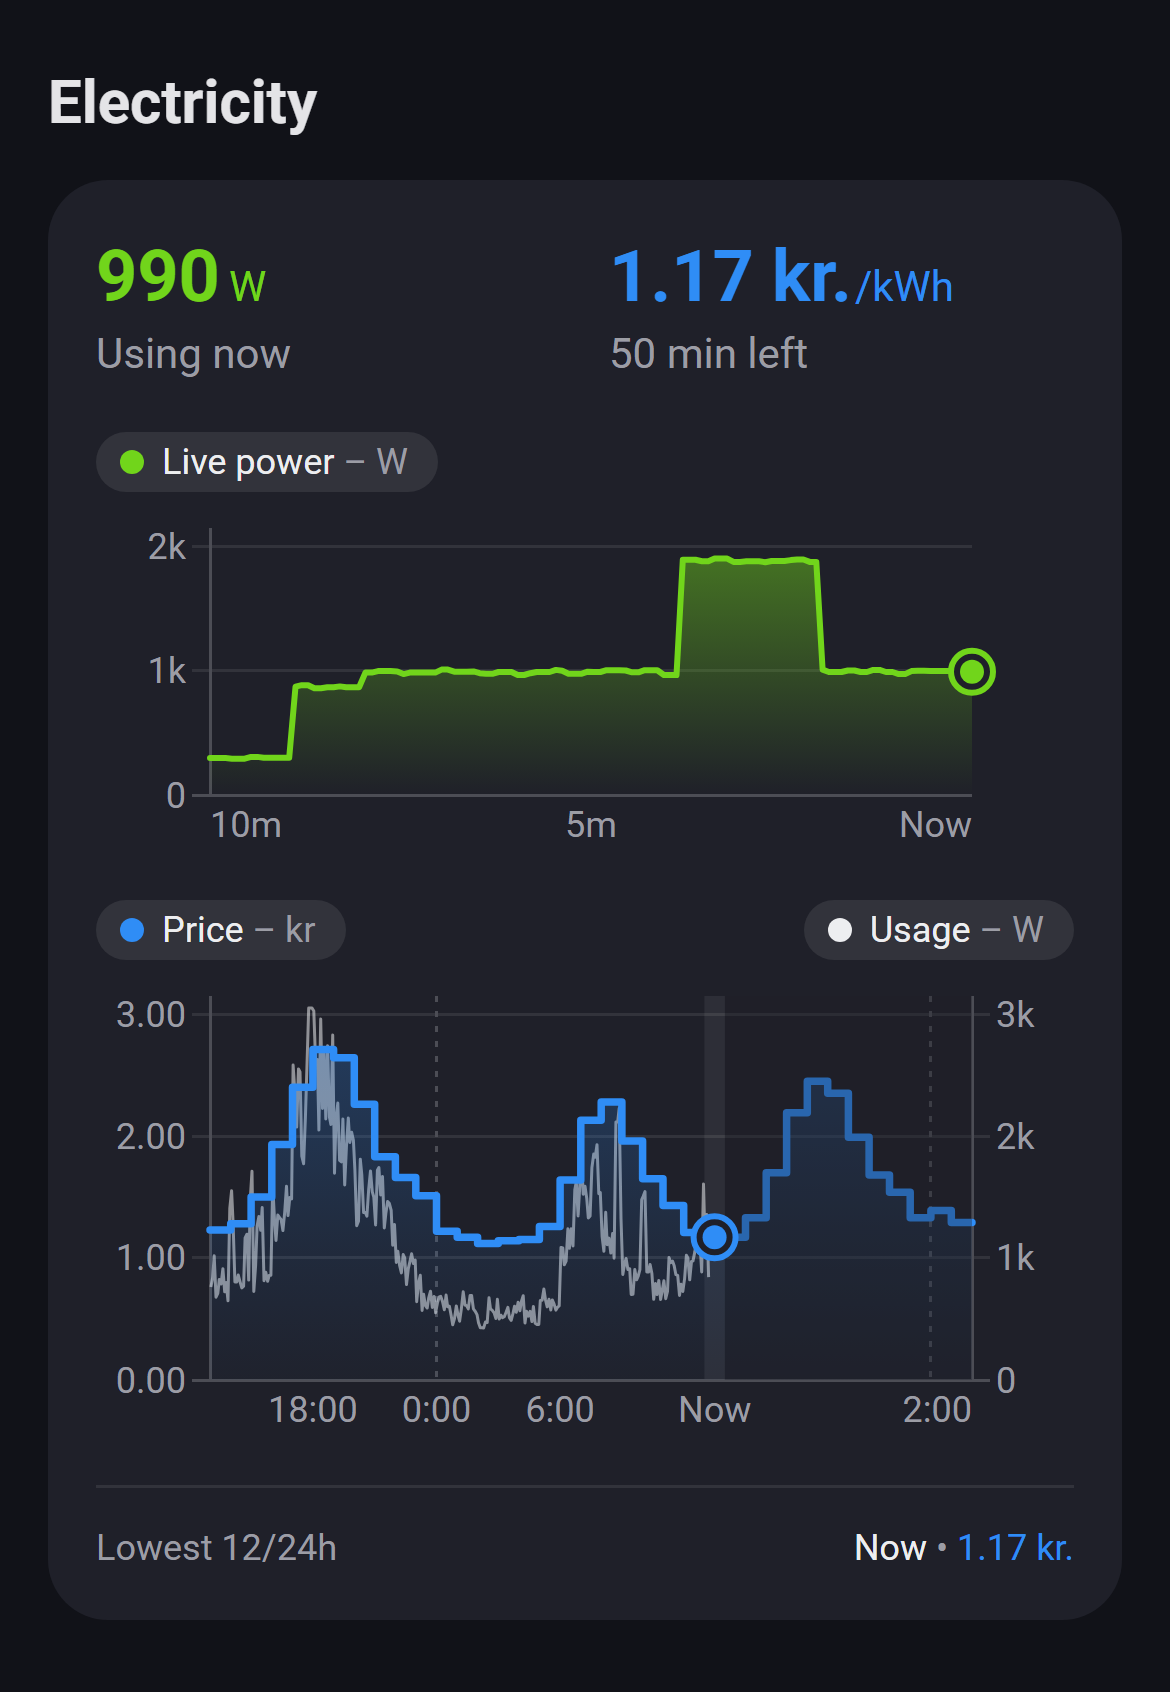
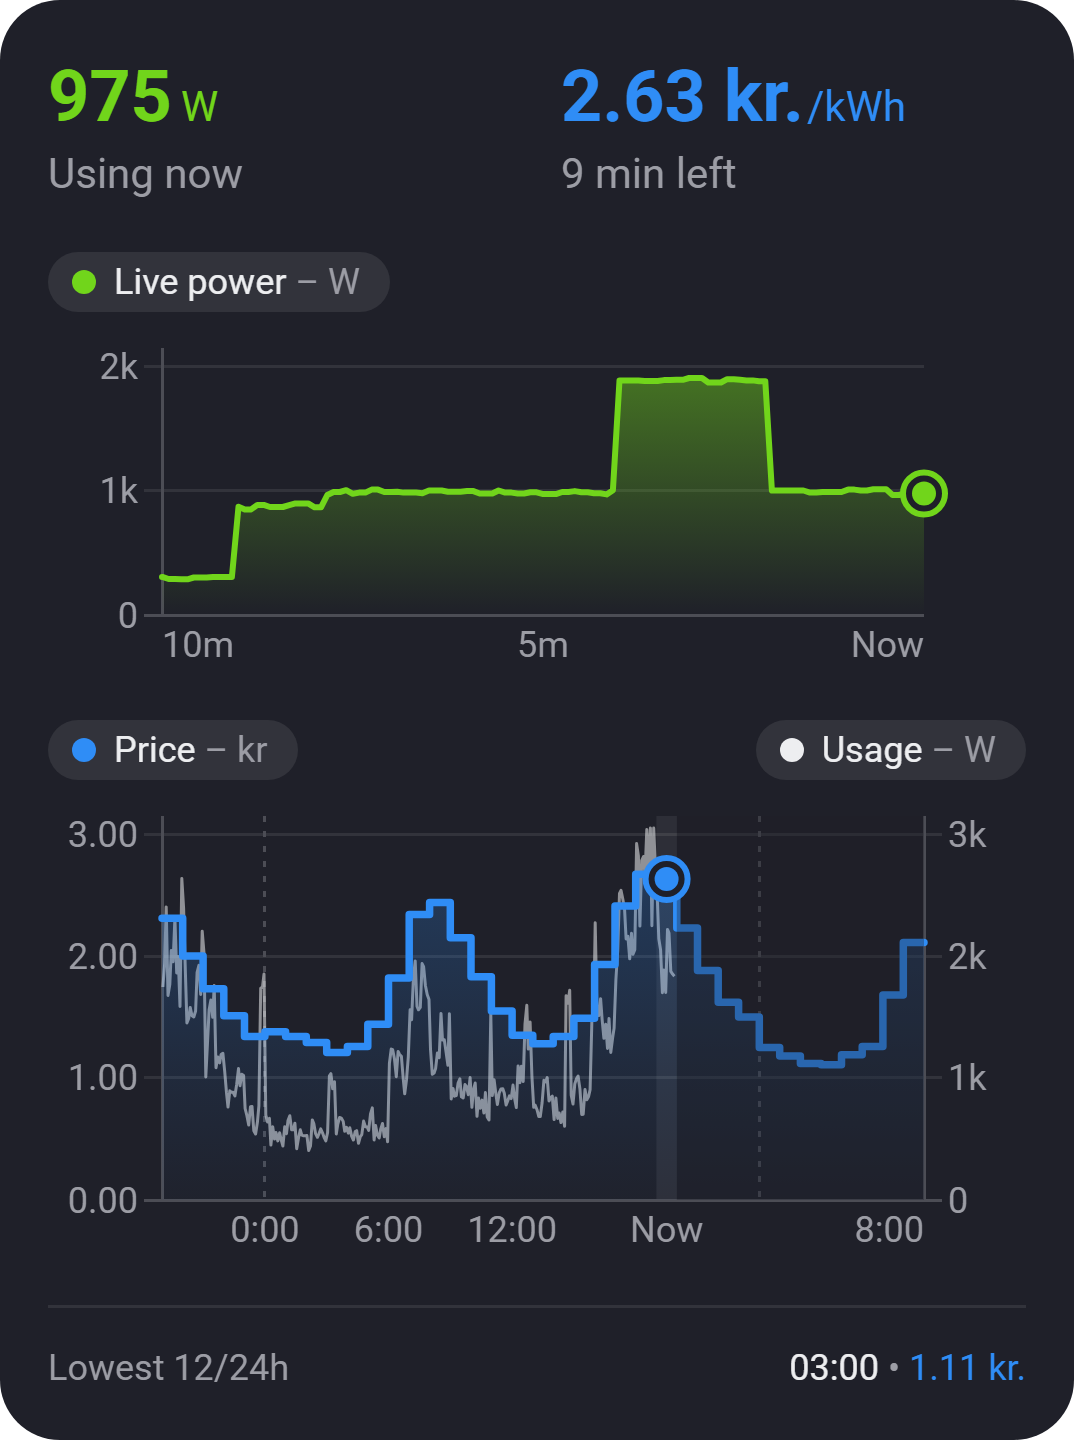
README: flush, title-less screenshots and widget previews in the overview

diff --git a/dev/screenshots.html b/dev/screenshots.html
@@ -5,8 +5,9 @@
   <meta name="viewport" content="width=device-width, initial-scale=1">
   <title>Widget screenshots</title>
   <!--
-    The README screenshots: the real widget code with mock data, laid out like Homey's dark dashboard on a
-    phone (390 px wide, colours sampled from an iPhone screenshot). `?s=electricity|thermostat|quickactions|sensoralarms|weather|heatmap|cameras`
+    The README screenshots: the real widget code with mock data, at the width of a widget on Homey's dark dashboard
+    on a phone (358 px: a 390 px screen less the dashboard's 16 px margins; colours sampled from an iPhone screenshot).
+    No widget title and a transparent page, so the shots sit flush with the README text in either GitHub theme. `?s=electricity|thermostat|quickactions|sensoralarms|weather|heatmap|cameras`
     shows one, for scripts/render-screenshots.mjs; without it, all seven.
     Device icons come from Homey's icon library. The render script downloads them to temp/screenshot-icons.js;
     without that file the tiles fall back to plain squares.
@@ -32,27 +33,23 @@
   <script src="mock-cameras.js"></script>
   <script src="../temp/screenshot-icons.js" onerror="window.ICONS = {}"></script>
   <style>
-    /* !important: the Quick Actions stylesheet makes the page transparent (it is a transparent widget). */
-    html, body { background: #111218 !important; }
-    body { width: 390px; margin: 0; padding: 20px 16px 24px; box-sizing: border-box; font-family: Roboto, sans-serif;
-      display: flex; flex-direction: column; gap: 32px; }
-    .shot { display: flex; flex-direction: column; gap: 12px; }
+    /* Transparent: the render script screenshots with a transparent default background. */
+    html, body { background: transparent !important; }
+    body { width: 358px; margin: 0; font-family: Roboto, sans-serif; display: flex; flex-direction: column; gap: 32px; }
     .shot[hidden] { display: none; }
-    /* The widget title Homey shows above a widget. */
-    .title { color: #E4E4E7; font-size: 20px; line-height: 28px; font-weight: 700; }
     /* A non-transparent widget's frame (default widget background, with Homey's widget padding). */
     .card { background: #1F2029; border-radius: 20px; padding: 16px; box-sizing: border-box; }
     .card.tw-frame, .card.wf-frame, .card.hm-frame { background: #181920; }
   </style>
 </head>
 <body>
-  <section class="shot" id="electricity"><div class="title">Electricity</div><div class="card"><div id="w-elec"></div></div></section>
-  <section class="shot" id="thermostat"><div class="title">Climate</div><div class="card tw-frame"><div id="w-thermo"></div></div></section>
-  <section class="shot" id="quickactions"><div class="title">Quick actions</div><div id="w-qa"></div></section>
-  <section class="shot" id="sensoralarms"><div class="title">Alarms</div><div id="w-sa"></div></section>
-  <section class="shot" id="weather"><div class="title">Weather</div><div class="card wf-frame"><div id="w-weather"></div></div></section>
-  <section class="shot" id="heatmap"><div class="title">Light</div><div class="card hm-frame"><div id="w-heatmap"></div></div></section>
-  <section class="shot" id="cameras"><div class="title">Cameras</div><div id="w-cameras"></div></section>
+  <section class="shot" id="electricity"><div class="card"><div id="w-elec"></div></div></section>
+  <section class="shot" id="thermostat"><div class="card tw-frame"><div id="w-thermo"></div></div></section>
+  <section class="shot" id="quickactions"><div id="w-qa"></div></section>
+  <section class="shot" id="sensoralarms"><div id="w-sa"></div></section>
+  <section class="shot" id="weather"><div class="card wf-frame"><div id="w-weather"></div></div></section>
+  <section class="shot" id="heatmap"><div class="card hm-frame"><div id="w-heatmap"></div></div></section>
+  <section class="shot" id="cameras"><div id="w-cameras"></div></section>
 
   <script>
     const icon = name => (window.ICONS && ICONS[name]) || null;

diff --git a/README.md b/README.md
@@ -4,18 +4,18 @@ Extra dashboard widgets for Homey Pro.
 
 I built these to replace a few native Homey widgets that didn't quite behave the way I wanted. The aim is widgets that sit naturally next to Homey's own: the same look, the same feel, and no sense that they came from somewhere else.
 
-| Widget | What it does |
-| --- | --- |
-| [Electricity Overview](#electricity-overview) | Live power use, hourly electricity prices and usage history on one card |
-| [Thermostat Shortcuts](#thermostat-shortcuts) | Three one-tap presets for a thermostat, heat pump or air conditioner |
-| [Device Quick Actions](#device-quick-actions) | Compact tiles that run a device's quick action with one tap |
-| [Sensor Alarms](#sensor-alarms) | Tiles that show a sensor's alarm and turn red when one is on |
-| [Weather Forecast](#weather-forecast) | The next 36 hours, hour by hour, from MET Norway (yr.no) |
-| [Insights Heatmap](#insights-heatmap) | A week of one value (light, temperature, motion …) as a grid of weekdays and hours |
-| [Cameras](#cameras) | Two to six cameras in one grid of snapshots; tap one to watch it live |
+| | Widget | What it does |
+| --- | --- | --- |
+| <picture><source media="(prefers-color-scheme: dark)" srcset="widgets/electricity/preview-dark.png"><img src="widgets/electricity/preview-light.png" alt="" width="64"></picture> | [Electricity Overview](#electricity-overview) | Live power use, hourly electricity prices and usage history on one card |
+| <picture><source media="(prefers-color-scheme: dark)" srcset="widgets/thermostat/preview-dark.png"><img src="widgets/thermostat/preview-light.png" alt="" width="64"></picture> | [Thermostat Shortcuts](#thermostat-shortcuts) | Three one-tap presets for a thermostat, heat pump or air conditioner |
+| <picture><source media="(prefers-color-scheme: dark)" srcset="widgets/quickactions/preview-dark.png"><img src="widgets/quickactions/preview-light.png" alt="" width="64"></picture> | [Device Quick Actions](#device-quick-actions) | Compact tiles that run a device's quick action with one tap |
+| <picture><source media="(prefers-color-scheme: dark)" srcset="widgets/sensoralarms/preview-dark.png"><img src="widgets/sensoralarms/preview-light.png" alt="" width="64"></picture> | [Sensor Alarms](#sensor-alarms) | Tiles that show a sensor's alarm and turn red when one is on |
+| <picture><source media="(prefers-color-scheme: dark)" srcset="widgets/weather/preview-dark.png"><img src="widgets/weather/preview-light.png" alt="" width="64"></picture> | [Weather Forecast](#weather-forecast) | The next 36 hours, hour by hour, from MET Norway (yr.no) |
+| <picture><source media="(prefers-color-scheme: dark)" srcset="widgets/heatmap/preview-dark.png"><img src="widgets/heatmap/preview-light.png" alt="" width="64"></picture> | [Insights Heatmap](#insights-heatmap) | A week of one value (light, temperature, motion …) as a grid of weekdays and hours |
+| <picture><source media="(prefers-color-scheme: dark)" srcset="widgets/cameras/preview-dark.png"><img src="widgets/cameras/preview-light.png" alt="" width="64"></picture> | [Cameras](#cameras) | Two to six cameras in one grid of snapshots; tap one to watch it live |
 
 ## Electricity Overview
-<img src="docs/screenshots/electricity.png" alt="Electricity Overview on a Homey dashboard" width="390">
+<img src="docs/screenshots/electricity.png" alt="Electricity Overview on a Homey dashboard" width="358">
 
 Your power use and electricity price together on one card:
 - **Live power**, updated every few seconds, over the last 30 seconds to 1 hour.
@@ -39,7 +39,7 @@ Tap or drag on a chart (or hover with a mouse) to see the exact value at any mom
 | Show lowest price | Off, next 12 hours, next 24 hours, or both |
 
 ## Thermostat Shortcuts
-<img src="docs/screenshots/thermostat.png" alt="Thermostat Shortcuts on a Homey dashboard" width="390">
+<img src="docs/screenshots/thermostat.png" alt="Thermostat Shortcuts on a Homey dashboard" width="358">
 
 Three one-tap presets for a thermostat, heat pump or air conditioner. For example: *Off*, *Heat 21° · Fan level 1* and *Heat 24° · Fan level 5*.
 
@@ -56,7 +56,7 @@ The button that matches the device's current state lights up. When no preset mat
 2. Configure each button. The temperature, mode and extra lists show only what your device supports. Pick the device first, then reopen these settings.
 
 ## Device Quick Actions
-<img src="docs/screenshots/quickactions.png" alt="Device Quick Actions on a Homey dashboard" width="390">
+<img src="docs/screenshots/quickactions.png" alt="Device Quick Actions on a Homey dashboard" width="358">
 
 Half-height device tiles for as many devices as you like. Tap anywhere on a tile to run the device's quick action, the same action as the round button on Homey's own device tile:
 - turn a light, plug or other device on or off
@@ -73,7 +73,7 @@ The whole tile shows the state: it's highlighted while the device is on, locked 
 The quick action is the one Homey uses for the device, including one you changed in the device's settings. Devices without a quick action, such as sensors, are shown dimmed. The tiles don't react while the dashboard is in edit mode.
 
 ## Sensor Alarms
-<img src="docs/screenshots/sensoralarms.png" alt="Sensor Alarms on a Homey dashboard" width="390">
+<img src="docs/screenshots/sensoralarms.png" alt="Sensor Alarms on a Homey dashboard" width="358">
 
 Tiles for as many sensors as you like, two per row, in the style of Homey's own temperature tiles. Each tile shows the device icon, its name and its alarm:
 - *No alarm* when everything is fine
@@ -87,7 +87,7 @@ The tile turns red while an alarm is on, and updates the moment it goes on or of
 2. Optionally switch on **Count motion and contact as alarms**. It's off by default, so an open door, detected motion or a camera spotting a person doesn't turn a tile red.
 
 ## Weather Forecast
-<img src="docs/screenshots/weather.png" alt="Weather Forecast on a Homey dashboard" width="390">
+<img src="docs/screenshots/weather.png" alt="Weather Forecast on a Homey dashboard" width="358">
 
 The next 36 hours for your Homey's location, hour by hour, from [MET Norway](https://www.met.no/en), the forecast behind [yr.no](https://www.yr.no). Each hour shows:
 - the weather icon
@@ -109,7 +109,7 @@ The forecast needs no other setup: the widget uses the location set for your Hom
 The forecast is shared by all weather widgets and only fetched while one is on screen, at most as often as MET Norway updates it. Weather data from MET Norway is licensed under [CC BY 4.0](https://creativecommons.org/licenses/by/4.0/). The weather icons are [Yr's weather symbols](https://github.com/metno/weathericons) (MIT).
 
 ## Insights Heatmap
-<img src="docs/screenshots/heatmap.png" alt="Insights Heatmap on a Homey dashboard" width="390">
+<img src="docs/screenshots/heatmap.png" alt="Insights Heatmap on a Homey dashboard" width="358">
 
 A week of one device value as a grid: a row per weekday and a column per 1, 2 or 3 hours, shaded from the lowest to the highest value shown. Under it, a scale from the lowest to the highest value with a marker at the current one. Hours with nothing reported are hatched, such as the rest of today.
 
@@ -124,7 +124,7 @@ It works with any number Homey logs in Insights, such as light, temperature, pow
 On/off values fill in over the first days. Homey's Insights only keep the last 50 changes of an on/off value, which for a busy motion sensor is less than a day. So the app records them itself from the moment the widget first loads, and keeps up to 14 days of them, until 8 days after the widget was last shown. Numbers come straight from Insights and show the whole week right away.
 
 ## Cameras
-<img src="docs/screenshots/cameras.png" alt="Cameras on a Homey dashboard" width="390">
+<img src="docs/screenshots/cameras.png" alt="Cameras on a Homey dashboard" width="358">
 
 Your cameras in one grid of snapshots, two per row, each with its name. With an odd number of cameras, the last one spans the full width. The snapshots refresh every few seconds while the dashboard is open, and pause while it's in the background. A snapshot that stops refreshing shows the time it was taken.
 
@@ -152,4 +152,4 @@ See [CHANGELOG.md](CHANGELOG.md) for what's new in each version.
 ## License
 [MIT](LICENSE)
 
-The screenshots show the real widgets with mock data, rendered by `npm run screenshots`.
+The screenshots show the real widgets with mock data, rendered by `npm run screenshots`. The small images in the overview are the widgets' previews from Homey's widget picker.

diff --git a/CLAUDE.md b/CLAUDE.md
@@ -12,7 +12,7 @@ Homey Pro app (`com.thomassidor.widgetkeeper`) that hosts custom dashboard widge
 - `npx homey app run`: live logs and hot reload of the widget files. It needs Docker Desktop running, which usually isn't.
 - `npm run app-images`: renders the three app store PNGs from `dev/app-images.html` (the hero photo `dev/hero.webp`, cropped to 10:7) with headless Edge.
 - `npm run previews [-- qa-dark …]`: renders the widget preview PNGs (all, or the ids given) from `dev/widget-previews.html` (the "Widget Previews" Claude Design project) with headless Edge. Open the page without a query to see them all; `?p=elec-dark` and so on shows one frame.
-- `npm run screenshots [-- thermostat …]`: renders the README screenshots (`docs/screenshots/*.png`) from `dev/screenshots.html`: the real widgets with mock data on Homey's dark dashboard, 390 px at 3x. It downloads the Homey library icons the mock devices use into `temp/screenshot-icons.js` (not committed).
+- `npm run screenshots [-- thermostat …]`: renders the README screenshots (`docs/screenshots/*.png`) from `dev/screenshots.html`: the real widgets with mock data in Homey's dark mode, 358 px (a phone's widget width) at 3x, with no widget title and a transparent background so they sit flush with the README text. The README's overview table shows each widget's `preview-light/dark.png` through a `<picture>` that follows the GitHub theme. It downloads the Homey library icons the mock devices use into `temp/screenshot-icons.js` (not committed).
 - `dev/preview.html`: the widget with mock data in a plain browser. Its mock snapshot is in `dev/mock-electricity.js`.
   - Serve the repo root (`python -m http.server 8765`) and open `/dev/preview.html`.
   - `?snap=/temp/real-snapshot.json` loads a real captured snapshot.
